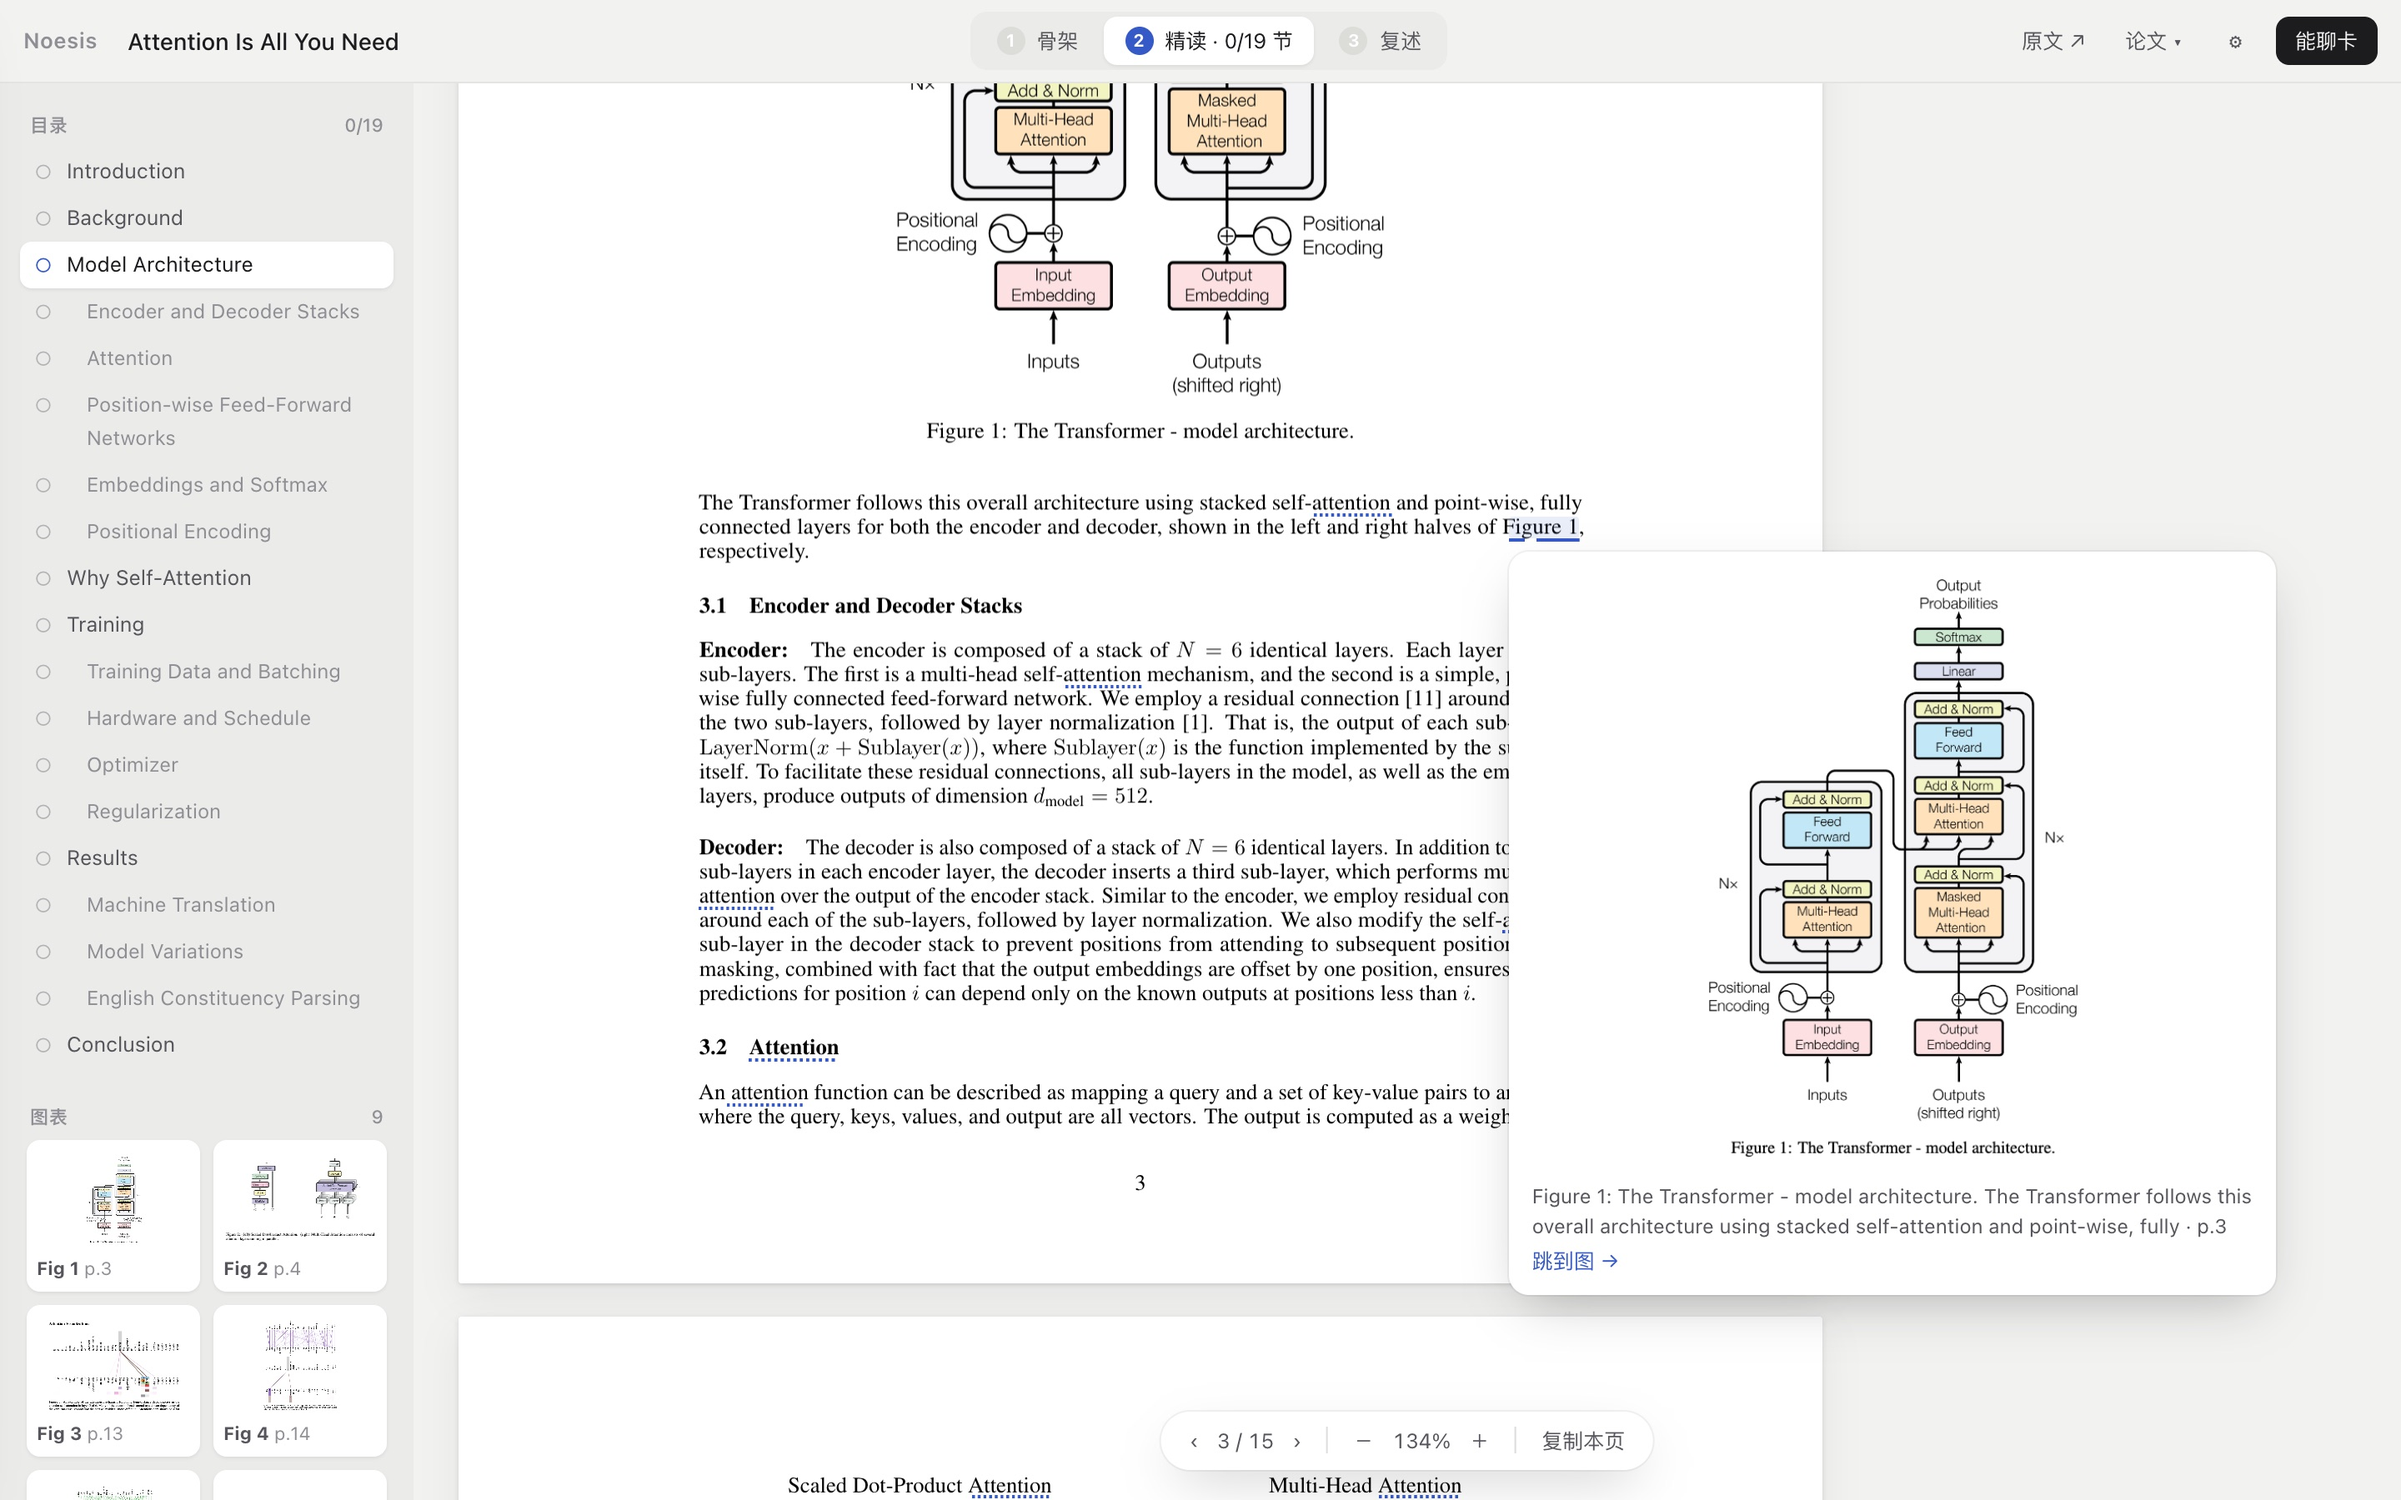
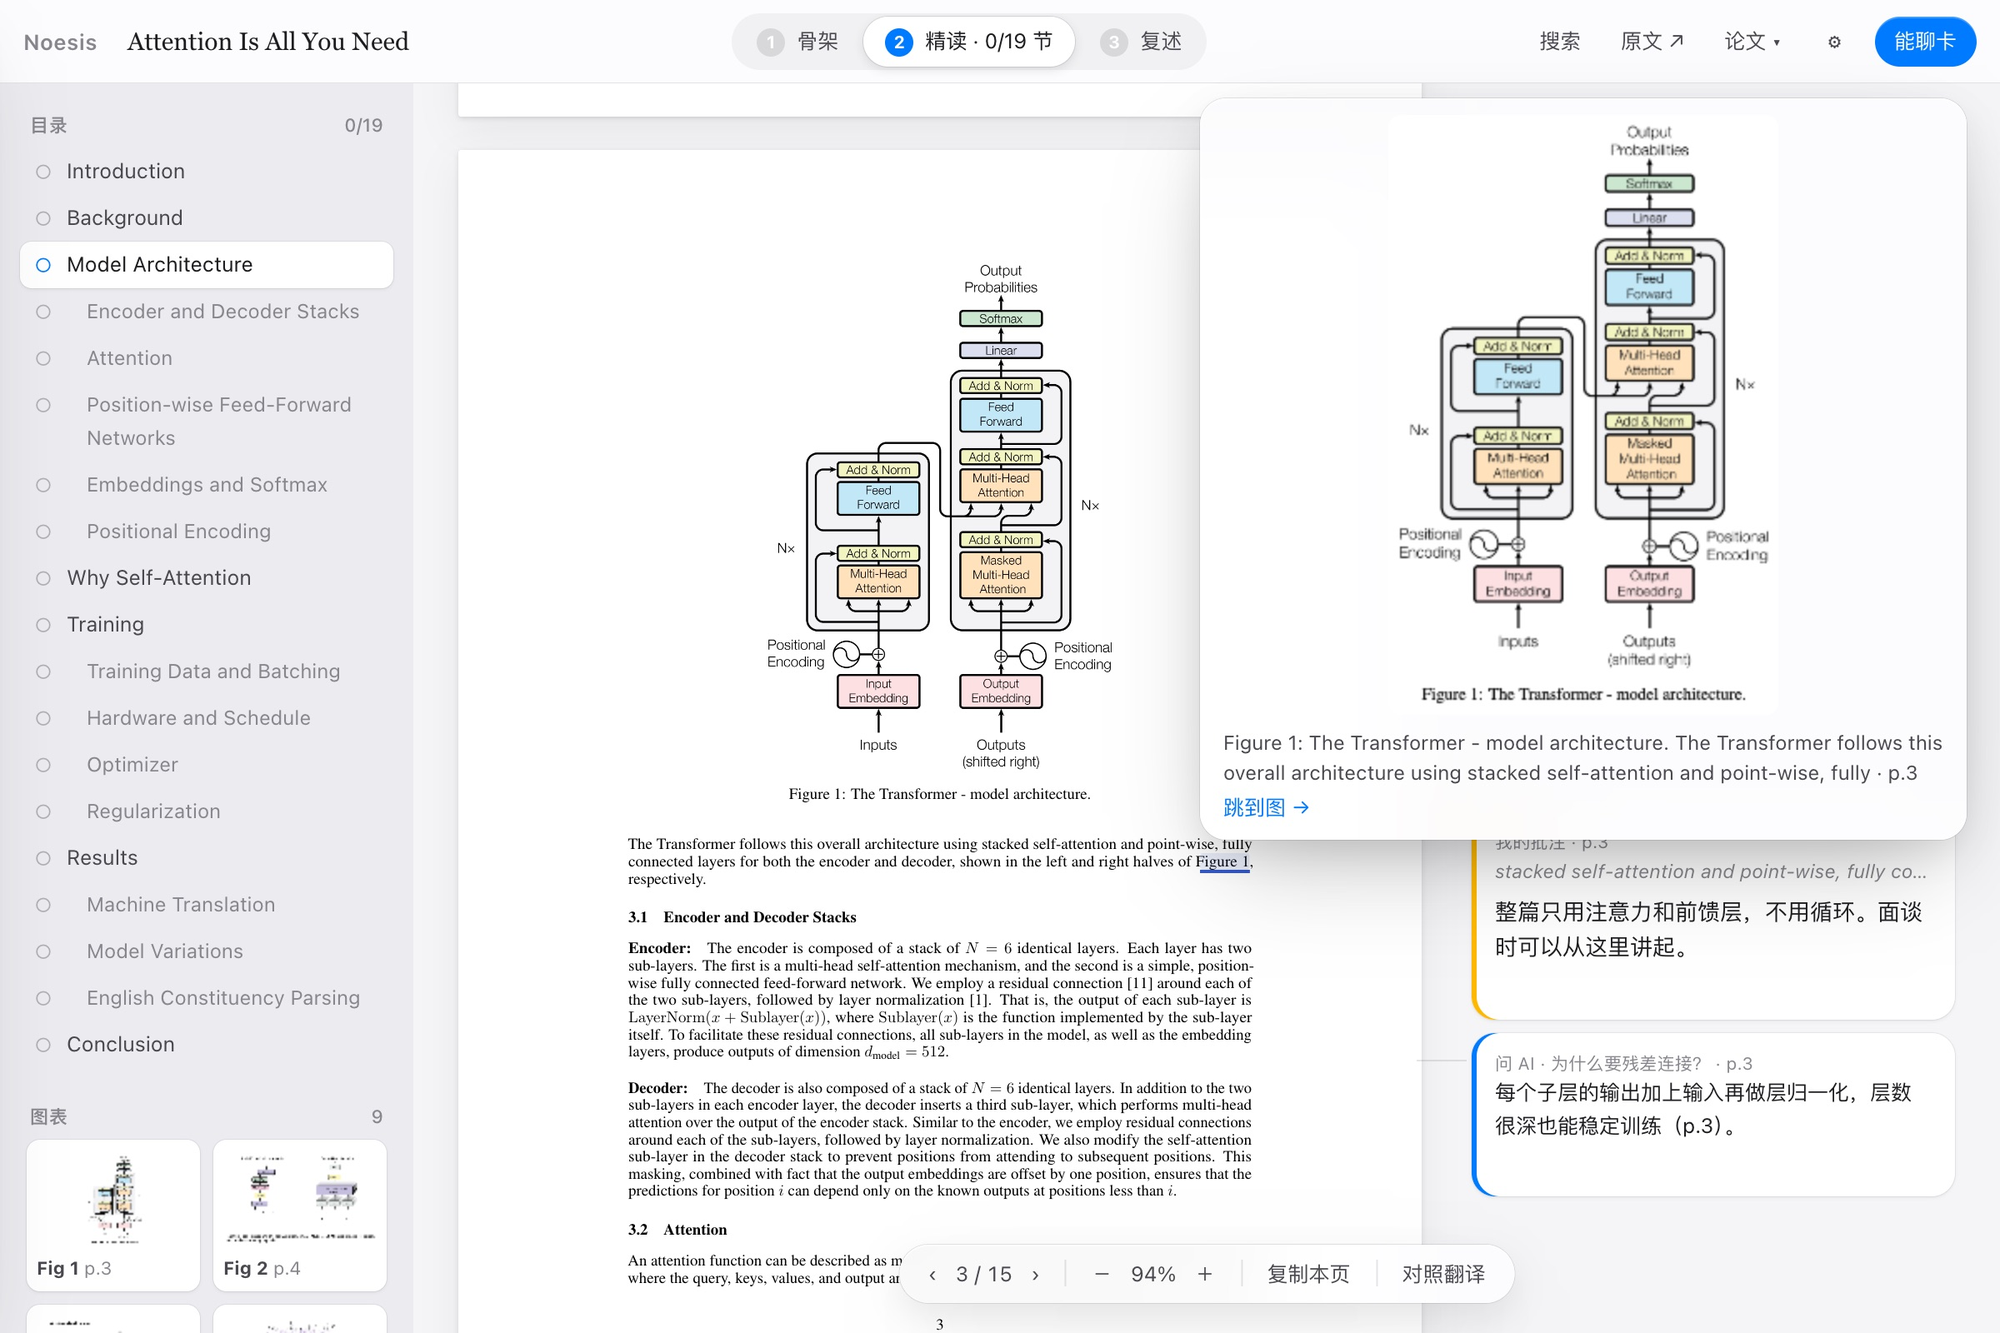
Redesign in the glass style

diff --git a/index.html b/index.html
@@ -3,8 +3,8 @@
 <head>
   <meta charset="utf-8">
   <meta name="viewport" content="width=device-width, initial-scale=1">
-  <meta name="theme-color" content="#f2f2f0" media="(prefers-color-scheme: light)">
-  <meta name="theme-color" content="#1b1b1d" media="(prefers-color-scheme: dark)">
+  <meta name="theme-color" content="#f5f5f7" media="(prefers-color-scheme: light)">
+  <meta name="theme-color" content="#1c1c1e" media="(prefers-color-scheme: dark)">
   <link rel="manifest" href="./manifest.webmanifest">
   <link rel="icon" href="./icon.svg" type="image/svg+xml">
   <title>Noesis Paper Reader</title>
@@ -12,24 +12,30 @@
     /* Quiet UI around the paper: neutral greys, one blue accent, system type. */
     :root {
       color-scheme: light;
-      --bg:#f2f2f0; --rail:#ebebe8; --card:#fff; --field:#f6f6f4; --hover:rgba(0,0,0,.045);
-      --ink:#1c1c1e; --ink2:#55555a; --mute:#8e8e93; --line:#dcdcd8; --hair:rgba(0,0,0,.06);
-      --accent:#3559c7; --accent-soft:#e6ecfb; --accent-ink:#fff;
-      --mark:rgba(255,214,10,.36); --ai-mark:rgba(53,89,199,.16); --note-bar:#e3b400;
-      --ok:#2f8a57; --warn:#b26a00; --bad:#c0392b;
-      --shadow-sm:0 1px 2px rgba(0,0,0,.07); --shadow-pop:0 12px 32px -10px rgba(0,0,0,.28),0 0 0 1px rgba(0,0,0,.05);
+      /* Glass design system (2026-10-29): solid content, glass for the controls that float above it */
+      --bg:#f5f5f7; --rail:#ececef; --card:#fff; --field:rgba(0,0,0,.045); --hover:rgba(0,0,0,.05);
+      --ink:#1d1d1f; --ink2:#48484d; --mute:#86868b; --line:rgba(0,0,0,.1); --hair:rgba(0,0,0,.07);
+      --accent:#007aff; --accent-soft:rgba(0,122,255,.12); --accent-ink:#fff;
+      --mark:rgba(255,214,10,.36); --ai-mark:rgba(0,122,255,.14); --note-bar:#ffb800;
+      --ok:#248a3d; --warn:#c93400; --bad:#d70015;
+      --shadow-sm:0 1px 2px rgba(0,0,0,.06),0 0 0 .5px rgba(0,0,0,.06); --shadow-pop:0 24px 60px -14px rgba(0,0,0,.28),0 8px 20px rgba(0,0,0,.08);
+      --glass:rgba(255,255,255,.68); --glass-solid:#f7f7f9; --blur:blur(28px) saturate(170%);
+      --glint:rgba(255,255,255,.6); --rim:rgba(255,255,255,.3); --glass-hair:rgba(0,0,0,.1);
+      --ease:cubic-bezier(.2,.8,.2,1); --ease-sheet:cubic-bezier(.32,.72,0,1);
       --page-filter:none;
       --sans:-apple-system,BlinkMacSystemFont,"PingFang SC","Hiragino Sans","Noto Sans CJK SC",sans-serif;
     }
     @media (prefers-color-scheme: dark) {
       :root {
         color-scheme: dark;
-        --bg:#1b1b1d; --rail:#222225; --card:#2a2a2d; --field:#232326; --hover:rgba(255,255,255,.06);
-        --ink:#f2f2f3; --ink2:#c5c5c9; --mute:#8d8d93; --line:#3a3a3e; --hair:rgba(255,255,255,.07);
-        --accent:#8aa4ff; --accent-soft:rgba(138,164,255,.16); --accent-ink:#111;
-        --mark:rgba(255,214,10,.42); --ai-mark:rgba(110,140,255,.28);
-        --ok:#5cc28a; --warn:#e0a24a; --bad:#ff7b6b;
-        --shadow-sm:0 1px 2px rgba(0,0,0,.4); --shadow-pop:0 14px 36px -10px rgba(0,0,0,.7),0 0 0 1px rgba(255,255,255,.06);
+        --bg:#1c1c1e; --rail:#232326; --card:#2c2c2e; --field:rgba(255,255,255,.07); --hover:rgba(255,255,255,.07);
+        --ink:#f5f5f7; --ink2:#c7c7cc; --mute:#98989d; --line:rgba(255,255,255,.12); --hair:rgba(255,255,255,.08);
+        --accent:#0a84ff; --accent-soft:rgba(10,132,255,.2); --accent-ink:#fff;
+        --mark:rgba(255,214,10,.42); --ai-mark:rgba(10,132,255,.28);
+        --ok:#30d158; --warn:#ff9f0a; --bad:#ff453a;
+        --shadow-sm:0 1px 2px rgba(0,0,0,.4),0 0 0 .5px rgba(255,255,255,.06); --shadow-pop:0 24px 60px -14px rgba(0,0,0,.7),0 8px 20px rgba(0,0,0,.3);
+        --glass:rgba(44,44,46,.62); --glass-solid:#2a2a2c;
+        --glint:rgba(255,255,255,.16); --rim:rgba(255,255,255,.1); --glass-hair:rgba(255,255,255,.12);
         --page-filter:brightness(.9);
       }
     }
@@ -436,7 +442,6 @@
 
 
     /* ---------- Personal touches ---------- */
-    @media (prefers-color-scheme: light) { :root[data-theme=mist] { --bg:#f3efe6; --rail:#ece7dc; --card:#fffdf8; --field:#f6f2ea; --hover:rgba(42,41,37,.05); --ink:#2a2925; --ink2:#5b574f; --mute:#9b968b; --line:#ddd6c8; --hair:rgba(42,41,37,.08); --accent:#5f7f6b; --accent-soft:#e2eadf; --note-bar:#c4875c; --mark:rgba(222,170,60,.3); --ai-mark:rgba(95,127,107,.18); } }
     @media (prefers-color-scheme: dark) { body.invert-paper .page canvas { filter:invert(.92) hue-rotate(180deg); } }
     @keyframes pass-fade { from { opacity:0; transform:translateY(4px); } }
     body.switching .rail-skel, body.switching .rail-read, body.switching .recap { animation:pass-fade .22s ease-out; }
@@ -491,6 +496,44 @@
       #pages { padding-top:14px; }
       body[data-pass] .pager { left:50%; }
     }
+
+    /* ---------- Glass (design system 2026-10-29) ----------
+       Content (pages, rail lists, recap) stays solid. Bars, popovers, panels and toasts
+       float above it as glass with a lit top edge. Controls are capsules. */
+    .btn, .passes, .passes button, #openSource, .drawer-tabs, .drawer-tabs button { border-radius:999px; }
+    textarea, input, select { border-radius:10px; }
+    .card { border:0; border-radius:16px; background:var(--card); box-shadow:var(--shadow-sm); }
+    .lib-item { border-radius:10px; }
+    .btn.dark { background:var(--accent); color:var(--accent-ink); box-shadow:inset 0 1px 0 rgba(255,255,255,.25); }
+    .top .tools .btn.dark { background:var(--accent); color:var(--accent-ink); }
+    .passes { background:var(--field); padding:2px; }
+    .passes button.is-on { box-shadow:inset 0 1px 0 var(--glint), 0 0 0 .5px var(--glass-hair), 0 2px 6px rgba(0,0,0,.1); }
+    .top, .pager, .pop, .settings, .search-bar, .toast, .drawer, .welcome-card, .keys-card {
+      background:var(--glass);
+      -webkit-backdrop-filter:var(--blur);
+      backdrop-filter:var(--blur);
+    }
+    .top { border-bottom:0; box-shadow:inset 0 -.5px 0 var(--glass-hair); position:relative; z-index:6; }
+    .pager, .pop, .settings, .search-bar, .toast, .drawer, .welcome-card, .keys-card {
+      box-shadow:inset 0 1px 0 var(--glint), inset 0 0 0 .5px var(--rim), 0 0 0 .5px var(--glass-hair), var(--shadow-pop);
+    }
+    .pop, .settings, .search-bar { border-radius:16px; }
+    .welcome-card, .keys-card { border-radius:22px; }
+    .toast { color:var(--ink); font-weight:500; }
+    .drawer { border-radius:0 22px 22px 0; }
+    .pop, .settings, .welcome-card, .keys-card { animation:glass-in .34s var(--ease-sheet); }
+    @keyframes glass-in { from { opacity:0; transform:translateY(8px) scale(.98); } }
+    .welcome, .keys { background:rgba(0,0,0,.16); }
+    .note { border-left:0; border-radius:14px; padding:10px 14px 9px; box-shadow:inset 3px 0 0 var(--note-bar), var(--shadow-sm); }
+    .note.ai { box-shadow:inset 3px 0 0 var(--accent), var(--shadow-sm); }
+    .note.highlight { box-shadow:inset 3px 0 0 #f0d26a, var(--shadow-sm); }
+    #notePop .note { box-shadow:none; }
+    /* Fallbacks: no backdrop-filter, reduce transparency, more contrast, reduce motion */
+    @supports not ((backdrop-filter:blur(1px)) or (-webkit-backdrop-filter:blur(1px))) { :root { --glass:var(--glass-solid); } }
+    @media (prefers-reduced-transparency: reduce) { :root { --glass:var(--glass-solid); --blur:none; --glint:transparent; } }
+    @media (prefers-contrast: more) { :root { --glass:var(--card); --blur:none; --line:rgba(127,127,127,.5); --hair:rgba(127,127,127,.4); --glass-hair:rgba(127,127,127,.6); } }
+    @media (prefers-reduced-motion: reduce) { *, *::before, *::after { animation:none !important; transition:none !important; scroll-behavior:auto !important; } }
+    @media (max-width: 640px) { :root { --blur:blur(16px) saturate(160%); } }
   </style>
 </head>
 <body data-pass="skeleton">
@@ -689,11 +732,6 @@
     <input id="apiKey" type="password" placeholder="不填也能用：会改为复制 prompt">
     <label for="modelInput">模型</label>
     <input id="modelInput">
-    <label for="themeInput">界面主题</label>
-    <select id="themeInput">
-      <option value="plain">中性灰</option>
-      <option value="mist">晨雾（暖纸色，浅色模式下）</option>
-    </select>
     <label class="inline-check"><input type="checkbox" id="invertInput"> 深色模式下把论文页反色</label>
     <label for="vaultInput">Obsidian 库名（不填就用最近打开的库）</label>
     <input id="vaultInput" placeholder="比如 我的笔记库">
@@ -3716,7 +3754,6 @@ ${pk.letter?.body ? `<h2>首联信草稿</h2><div class="letter">${esc(pk.letter
       localStorage.setItem(LANG_KEY, $("langInput").value);
       loadTrans(); if (transOn()) for (const n of rendered.keys()) { renderTransCol(n); queueTranslate(n); }
       localStorage.setItem("noesis.reader.v4.vision", $("visionInput").checked ? "1" : "0");
-      localStorage.setItem("noesis.reader.v4.theme", $("themeInput").value);
       localStorage.setItem("noesis.reader.v4.invert", $("invertInput").checked ? "1" : "0");
       applyLook();
       $("settings").classList.remove("is-on");
@@ -3907,10 +3944,8 @@ ${pk.letter?.body ? `<h2>首联信草稿</h2><div class="letter">${esc(pk.letter
     $("vaultInput").value = localStorage.getItem(VAULT_KEY) || "";
     $("folderInput").value = localStorage.getItem(FOLDER_KEY) || "";
     $("langInput").value = localStorage.getItem(LANG_KEY) || "zh";
-    $("themeInput").value = localStorage.getItem("noesis.reader.v4.theme") || "plain";
     $("invertInput").checked = localStorage.getItem("noesis.reader.v4.invert") === "1";
     function applyLook() {
-      document.documentElement.dataset.theme = $("themeInput").value;
       document.body.classList.toggle("invert-paper", $("invertInput").checked);
     }
     applyLook();

diff --git a/README.md b/README.md
@@ -64,13 +64,16 @@ Noesis keeps everything on the paper. It walks you through three passes: get the
 
 - Add papers by arXiv ID, PDF link, upload, or a Zotero `.bib` / `.ris` export. Each paper keeps its own notes, terms and recap.
 - **Picks up where you left off.** Each paper reopens at the page and spot you last read.
-- **Keyboard first.** Press `?` for the cheat sheet: `1` `2` `3` switch passes, `J` / `K` pages, `]` / `[` sections, `/` search, and after selecting text `T` translate, `N` note, `A` ask, `M` term, `H` highlight.
+- **Keyboard first.** Press `?` for the cheat sheet (below): `1` `2` `3` switch passes, `J` / `K` pages, `]` / `[` sections, `/` search, and after selecting text `T` translate, `N` note, `A` ask, `M` term, `H` highlight.
 - **Reading time.** Minutes spent on each pass are counted only while you are actually reading (the tab is visible and you did something in the last 90 seconds). They show in the paper list, on the finish card, and as `reading_minutes` in the exported note.
+- **Glass look.** Bars, popovers and panels are translucent glass over the page, in the current Apple style; controls are capsules. With *Reduce transparency* or *Increase contrast* on, the glass turns solid; with *Reduce motion*, nothing animates. The warm "mist" theme is gone; light and dark follow your system.
 - Open a paper straight from a link: `?open=<arXiv ID or PDF link>&title=…`.
 - Full-text search across the paper, your notes and terms (⌘F). Paragraph-by-paragraph translation aligned beside the original, or a *learning mode* that only glosses hard sentences and new words.
 - Box-select a figure or formula on blank space and ask about it; vision-capable models get the image.
-- Two looks: neutral grey, or the warm paper "mist" theme. Dark mode follows your system.
+- Dark mode follows your system.
 - Installable as an app on a phone or desktop (PWA). After the first visit the reader works offline for uploaded papers.
+
+<img src="docs/screenshots/keys.jpg" alt="Keyboard shortcut cheat sheet on a glass panel over the paper" width="720">
 
 <img src="docs/screenshots/dark.jpg" alt="Dark mode" width="720">
 
@@ -142,6 +145,7 @@ Then open http://localhost:8000.
 - Reading time per pass, shown in the paper list and finish card and exported with the note.
 - `?open=` links open a paper directly.
 - Saving a custom AI service without a model name now warns you.
+- New look in the current Apple glass style: translucent bars, popovers and panels; capsule buttons and segmented controls; rounded margin notes. The "mist" theme is removed.
 
 **v3.1.0 — Say it out loud**
 
